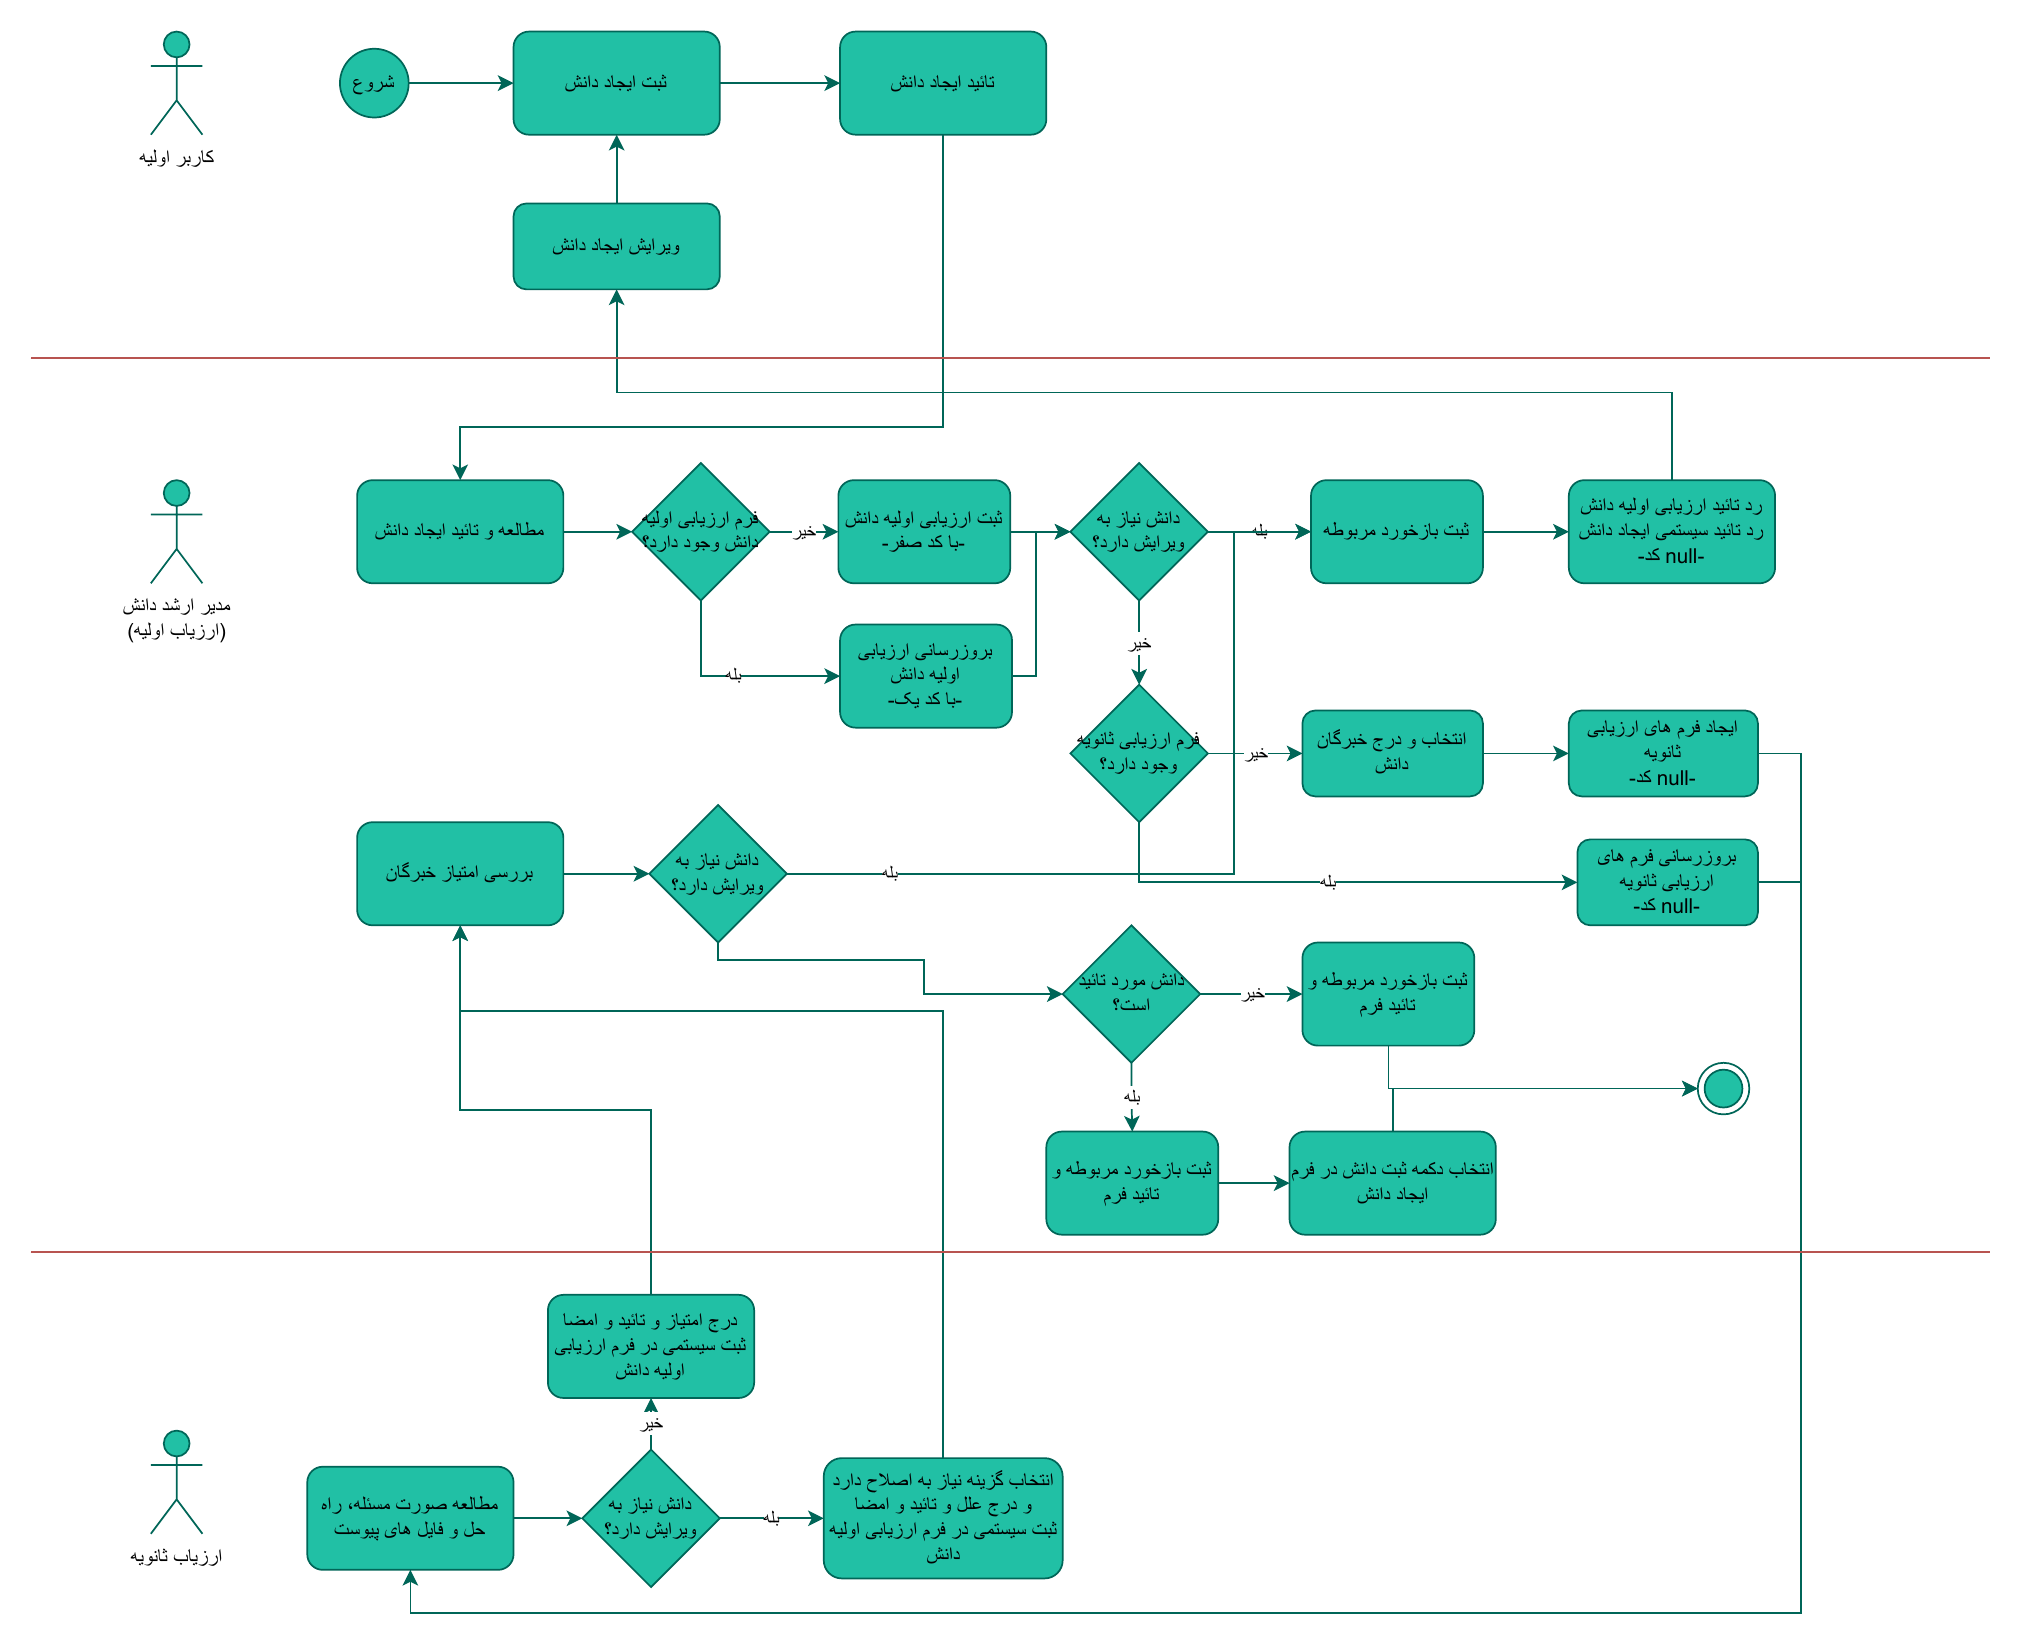
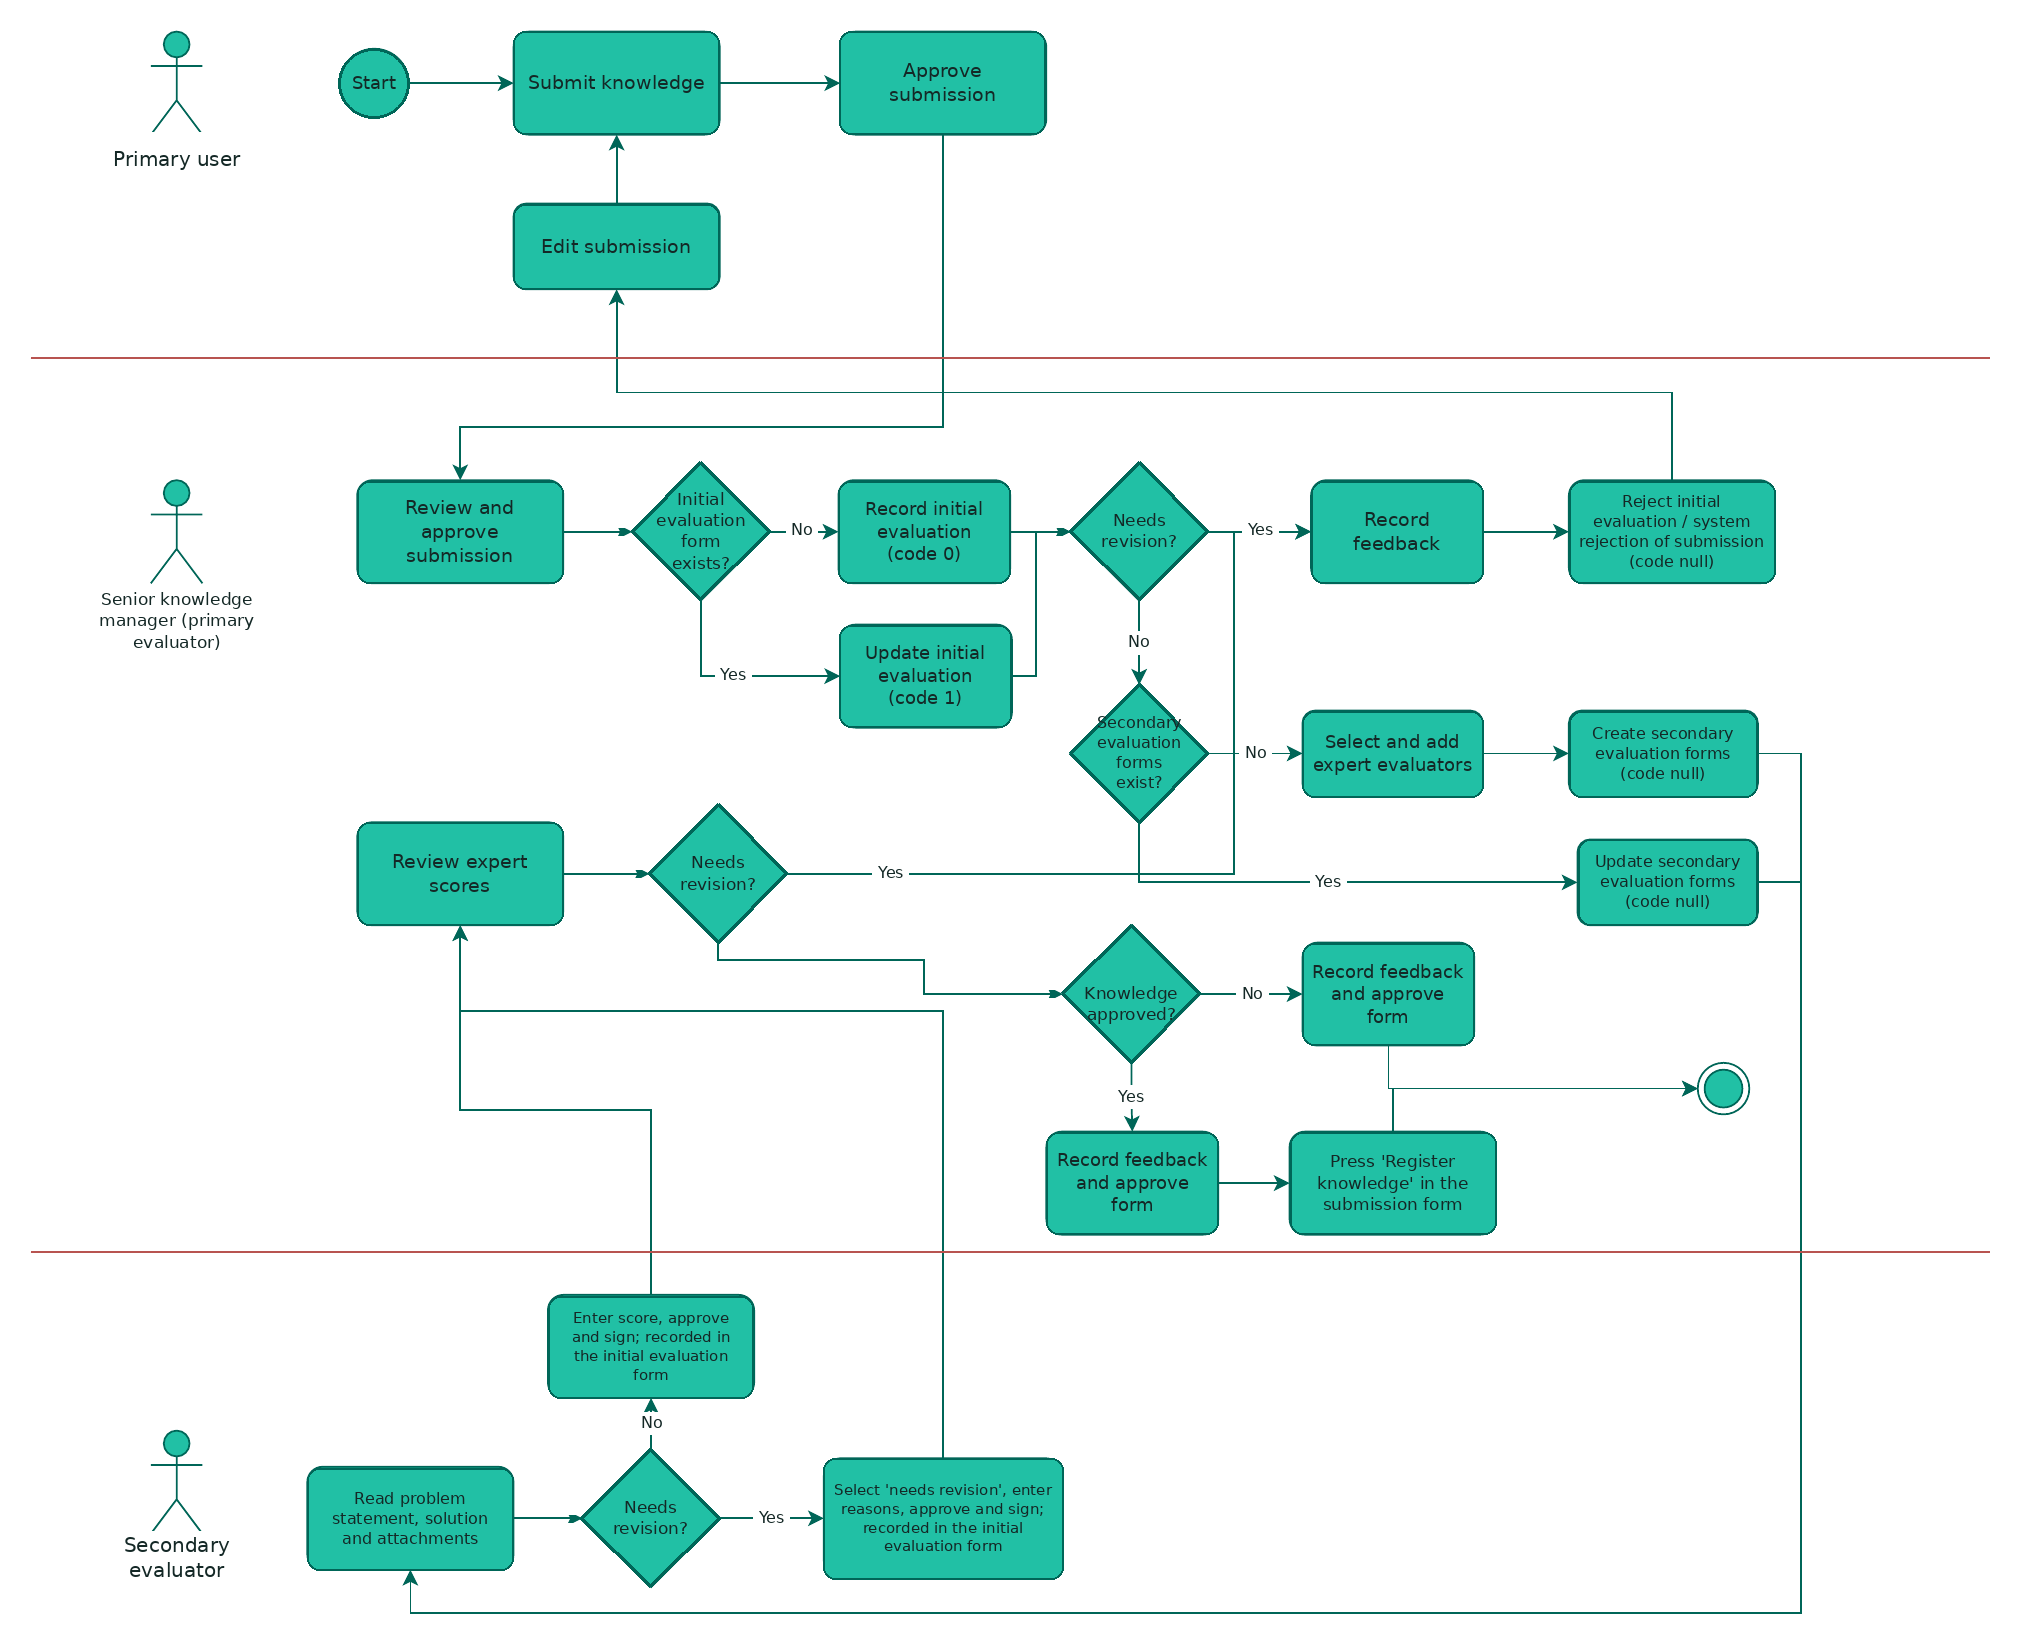
Expand ERP page: full role, module coverage and translated report figures

diff --git a/src/data/projects.ts b/src/data/projects.ts
@@ -8,6 +8,8 @@
  * - `application` adds an "Interactive Application" section (screenshots + demo link) to the detail page.
  */
 import erpKnowledgeWorkflow from '~/assets/erp/knowledge-workflow.png';
+import erpWorkOrderReport from '~/assets/erp/work-order-report.png';
+import erpTimesheetReport from '~/assets/erp/timesheet-merged-report.png';
 import citywideNetwork from '~/assets/phd/citywide-network.jpg';
 import archBaseline from '~/assets/phd/arch-baseline.png';
 import archAttention from '~/assets/phd/arch-attention.png';
@@ -770,8 +772,10 @@ export const projects: Project[] = [
               kind: 'rows',
               items: [
                 { label: 'Process analysis', text: 'Talked with employees across departments to understand their processes and gather requirements.' },
-                { label: 'Workflow and form design', text: 'Designed the processes and forms each department needed. In the vendor’s test application, I built forms and pages myself and sent them to the vendor.' },
-                { label: 'SQL and data investigation', text: 'Read the software and its SQL database to find the cause of process problems. Behind each form was a page where SQL defined which tables to read and how, using joins, subqueries, aggregations, CASE logic, temporary tables, views and cursors.' },
+                { label: 'Workflow and form design', text: 'Designed the processes and forms each department needed. In the vendor’s test application, I built forms and pages myself and sent them to the vendor. Behind each form was a page where SQL defined which tables to read and how.' },
+                { label: 'SQL and data investigation', text: 'Read the software and its SQL database to find the cause of process problems, using joins, subqueries, aggregations, CASE logic, temporary tables, views and cursors.' },
+                { label: 'Reports', text: 'Built many reports for departments such as planning and engineering, using SQL and XML for data and layout.' },
+                { label: 'Module coverage', text: 'Most modules were part of the system from the start, and we completed the processes inside them. The ICT, maintenance and manufacturing engineering modules were added at our request, and I worked out their processes and forms with the vendor.' },
                 { label: 'Vendor collaboration', text: 'Sent requests and technical specifications to the vendor, who reviewed them and brought up the updated system in production.' },
                 { label: 'Documentation and training', text: 'Trained employees on the system and wrote user guides.' },
               ],
@@ -785,8 +789,8 @@ export const projects: Project[] = [
             {
               kind: 'rows',
               items: [
-                { label: 'Knowledge Management Workflow', text: 'Independently designed a workflow covering knowledge submission, initial and expert evaluation, feedback, revision and approval. I defined the process logic, user roles, form specifications and workflow transitions. Final production deployment was not confirmed.' },
-                { label: 'ERP Reporting & SQL Customization', text: 'Reworked an existing engineering report whose time data was split across three separate columns, which made each record hard to read. Using XML, I merged department, department activities and time into one column, so each record shows the time spent on one drawing item by activity. When a project is selected, the first row also shows total time and total time per department.' },
+                { label: 'Knowledge Management Workflow', text: 'Independently designed a workflow covering knowledge submission, initial and expert evaluation, feedback, revision and approval, built as three linked forms. I defined the process logic, user roles, form specifications and workflow transitions, including a separate primary-evaluation form that keeps secondary evaluators’ input apart from the submitter, version tracking of revised attachments, and a weighted final score.' },
+                { label: 'ERP Reporting & SQL Customization', text: 'Reworked an existing engineering report whose time data was split across three separate columns, which made each record hard to read. Using XML, I merged department, department activities and time into one column, so each record shows the time spent on one drawing item by activity. When a project is selected, the first row also shows total time and total time per department. Other reports I built include a department timesheet summary (regular, overtime, rework and downtime hours) and a per-project comparison of price-analysis, material take-off (MTO) and consumed quantities.' },
                 { label: 'Work Order Reporting', text: 'Created a work order report for the planning department, with a printable version that can be printed on the back of the drawing. The system could only look up records by ID, which made filtering by drawing number error-prone or slow. I added the drawing number to the form’s record display, so quick search shows it next to the ID and project, and enabled filtering by drawing number.' },
               ],
             },
@@ -797,15 +801,28 @@ export const projects: Project[] = [
               figure: {
                 src: erpKnowledgeWorkflow,
                 alt: 'Swimlane diagram of the knowledge management workflow for three roles: the primary user, the senior knowledge manager acting as primary evaluator, and the secondary evaluator',
-                caption: 'Knowledge management workflow: primary user, senior knowledge manager (primary evaluator) and secondary evaluator. Original diagram, in Persian.',
+                caption: 'Knowledge management workflow: primary user, senior knowledge manager (primary evaluator) and secondary evaluator. Labels translated into English by the author from the original Persian diagram.',
               },
             },
             {
-              kind: 'placeholders',
-              items: [
-                { label: 'Report screenshot', note: 'Screenshot to be added' },
-                { label: 'Work order report screenshot', note: 'Screenshot to be added' },
-              ],
+              kind: 'text',
+              paragraphs: [],
+              wide: true,
+              figure: {
+                src: erpTimesheetReport,
+                alt: 'Engineering documents report with department, time and department activities merged into one column',
+                caption: 'Engineering documents report after the rework: one column per record. Column headers translated into English by the author; row contents are in Persian.',
+              },
+            },
+            {
+              kind: 'text',
+              paragraphs: [],
+              wide: true,
+              figure: {
+                src: erpWorkOrderReport,
+                alt: 'Printable work order report with item number, type, quantity, drawing match and sequence of operations, plus a blank part transfer table',
+                caption: 'Printable work order report. Interface labels translated into English by the author; names, codes and other identifying details are removed.',
+              },
             },
           ],
         },
@@ -816,7 +833,7 @@ export const projects: Project[] = [
             {
               kind: 'rows',
               items: [
-                { label: 'Databases & SQL', text: 'Joins, subqueries, aggregations, CASE WHEN, temporary tables, views, cursors; database structure analysis.' },
+                { label: 'Databases & SQL', text: 'Joins, subqueries, aggregations, CASE WHEN, temporary tables, views, cursors; XML for report layout; database structure analysis.' },
                 { label: 'ERP configuration', text: 'Forms, workflows, reports and display settings in GALEX ERP, using the vendor’s test application.' },
                 { label: 'Analysis & communication', text: 'Requirements gathering, technical specifications, user documentation and training.' },
               ],
